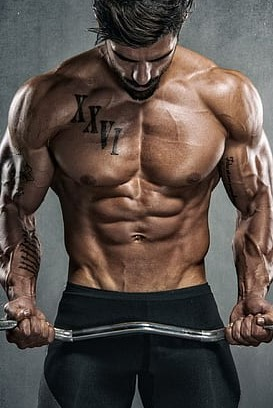
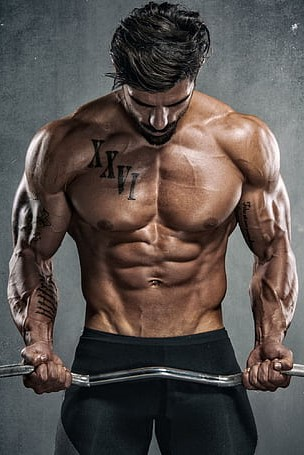
update pics

diff --git a/services.html b/services.html
@@ -51,8 +51,8 @@
         .menu-bodies img {
             opacity: 0.6;
             transition: opacity 0.5s;
-            height: 150px;
-            transition: all 1000ms ease-in-out;
+            height: 250px;
+            transition: all 500ms ease-in-out;
         }
         
         .mixture {
